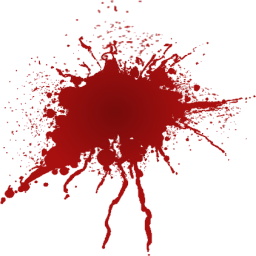
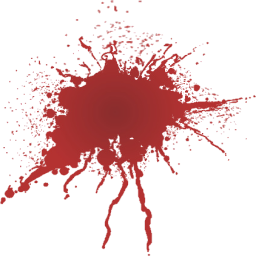
Added blood stains

diff --git a/Assets/Effects/EffectsController.cs b/Assets/Effects/EffectsController.cs
@@ -17,8 +17,13 @@ public class EffectsController : MonoBehaviour
     public GameObject woodDebris;
     public GameObject glassDebris;
 
+    public GameObject bloodStain;
+
     private List<GameObject> bulletHoles = new List<GameObject>();
     public int MAX_BULLET_HOLES = 200;
+
+    private List<GameObject> bloodStains = new List<GameObject>();
+    public int MAX_BLOOD_STAINS = 50;
 
     // Start is called before the first frame update
     void Start()
@@ -46,7 +51,12 @@ public class EffectsController : MonoBehaviour
 
     private GameObject Spawn(GameObject effect, Vector3 position)
     {
-        GameObject effectObj = Instantiate(effect, position, Quaternion.identity);
+        return Spawn(effect, position, Quaternion.identity);
+    }
+
+    private GameObject Spawn(GameObject effect, Vector3 position, Quaternion rotation)
+    {
+        GameObject effectObj = Instantiate(effect, position, rotation);
         effectObj.transform.parent = transform;
         return effectObj;
     }
@@ -60,7 +70,7 @@ public class EffectsController : MonoBehaviour
         }
     }
 
-    public void SpawnBulletTrailEffect(Vector3 start, Vector3 end, UnitController attacker, float damage)
+    public void SpawnBulletTrailEffect(Vector3 start, Vector3 end, UnitController attacker, float damage)   // TODO: not true; it actually spawns bullet
     {
         start = start + (end - start).normalized * 0.25f;
         var trail = Spawn(bulletTrailEffect, start);
@@ -129,5 +139,16 @@ public class EffectsController : MonoBehaviour
         }
 
         toRemove.ForEach(bulletHole => Destroy(bulletHole));
+    }
+
+    public void SpawnBloodStain(Vector3 position, Quaternion rotation)
+    {
+        while (bloodStains.Count >= MAX_BULLET_HOLES) {
+            var bloodStain = bloodStains[0];
+            bloodStains.RemoveAt(0);
+            Destroy(bloodStain);
+        }
+
+        bloodStains.Add(Spawn(bloodStain, position, rotation));
     }
 }

diff --git a/Assets/Effects/BloodSplatterController.cs b/Assets/Effects/BloodSplatterController.cs
@@ -1,0 +1,43 @@
+using System.Collections;
+using System.Collections.Generic;
+using UnityEngine;
+
+public class BloodSplatterController : MonoBehaviour
+{
+    private struct PosAndRotation
+    {
+        public Vector3 position;
+        public Quaternion rotation;
+
+        public PosAndRotation(Vector3 position, Quaternion rotation)
+        {
+            this.position = position;
+            this.rotation = rotation;
+        }
+    }
+
+    private List<PosAndRotation> particlePositions = new List<PosAndRotation>();
+
+    void FixedUpdate()
+    {
+        var particleSystem = GetComponent<ParticleSystem>();
+        ParticleSystem.Particle[] particles = new ParticleSystem.Particle[particleSystem.particleCount];
+        int particlesAlive = particleSystem.GetParticles(particles);
+        if (particlesAlive == 0)
+            return;
+
+        particlePositions.Clear();
+        for (int i = 0; i < particlesAlive; i++) {
+            particlePositions.Add(new PosAndRotation(particles[i].position, Quaternion.Euler(0, 0, -particles[i].rotation)));
+        }
+    }
+
+    void OnParticleSystemStopped()
+    {
+        var effectsController = GameObject.Find("+Effects").GetComponent<EffectsController>();
+        foreach (var pos in particlePositions) {
+            effectsController.SpawnBloodStain(pos.position, pos.rotation);
+        }
+        Destroy(gameObject);
+    }
+}
